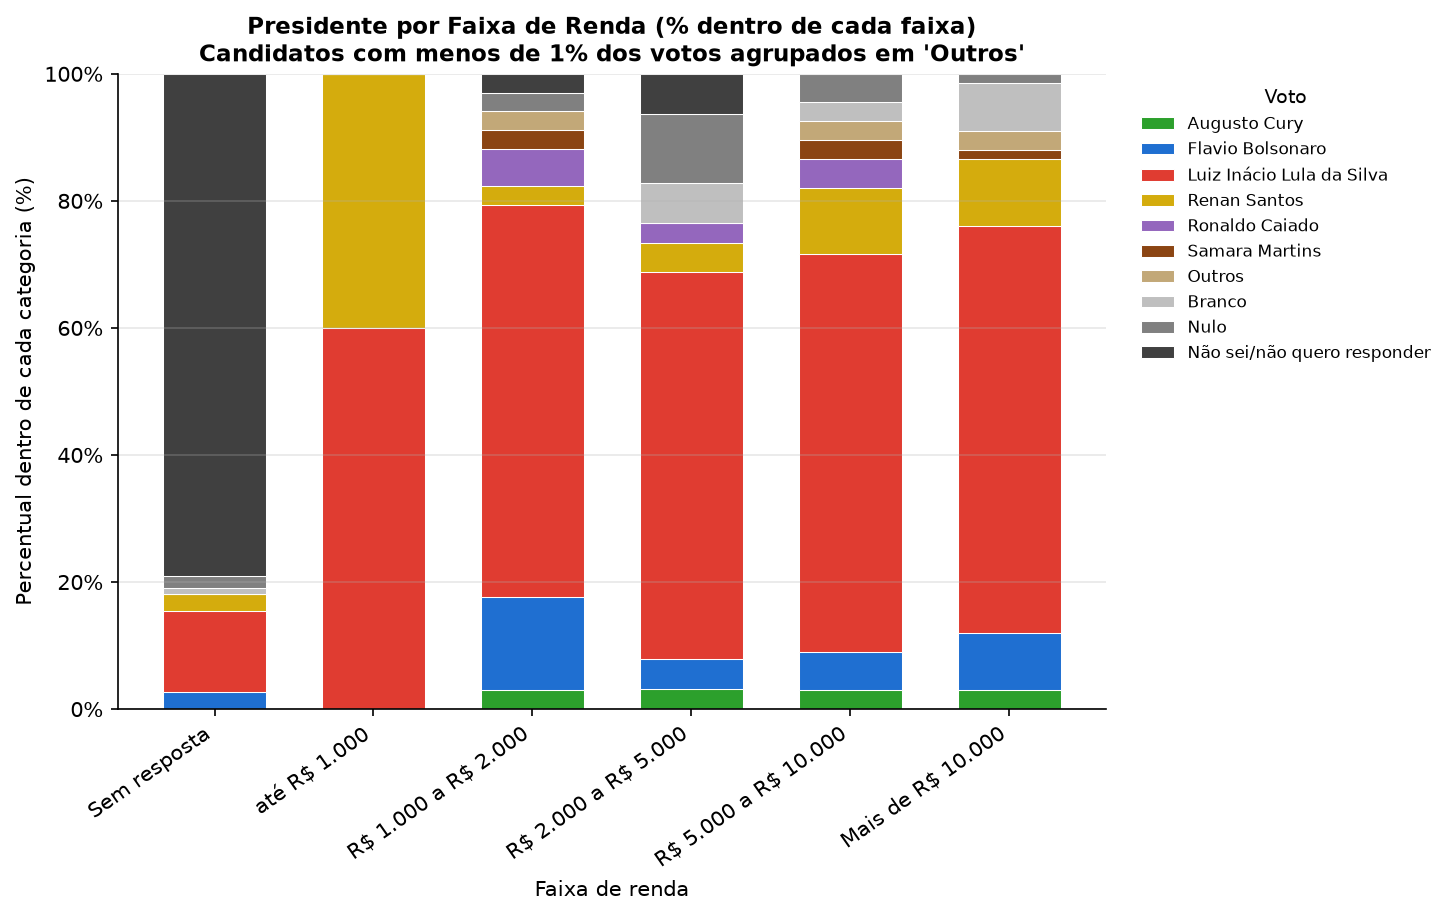
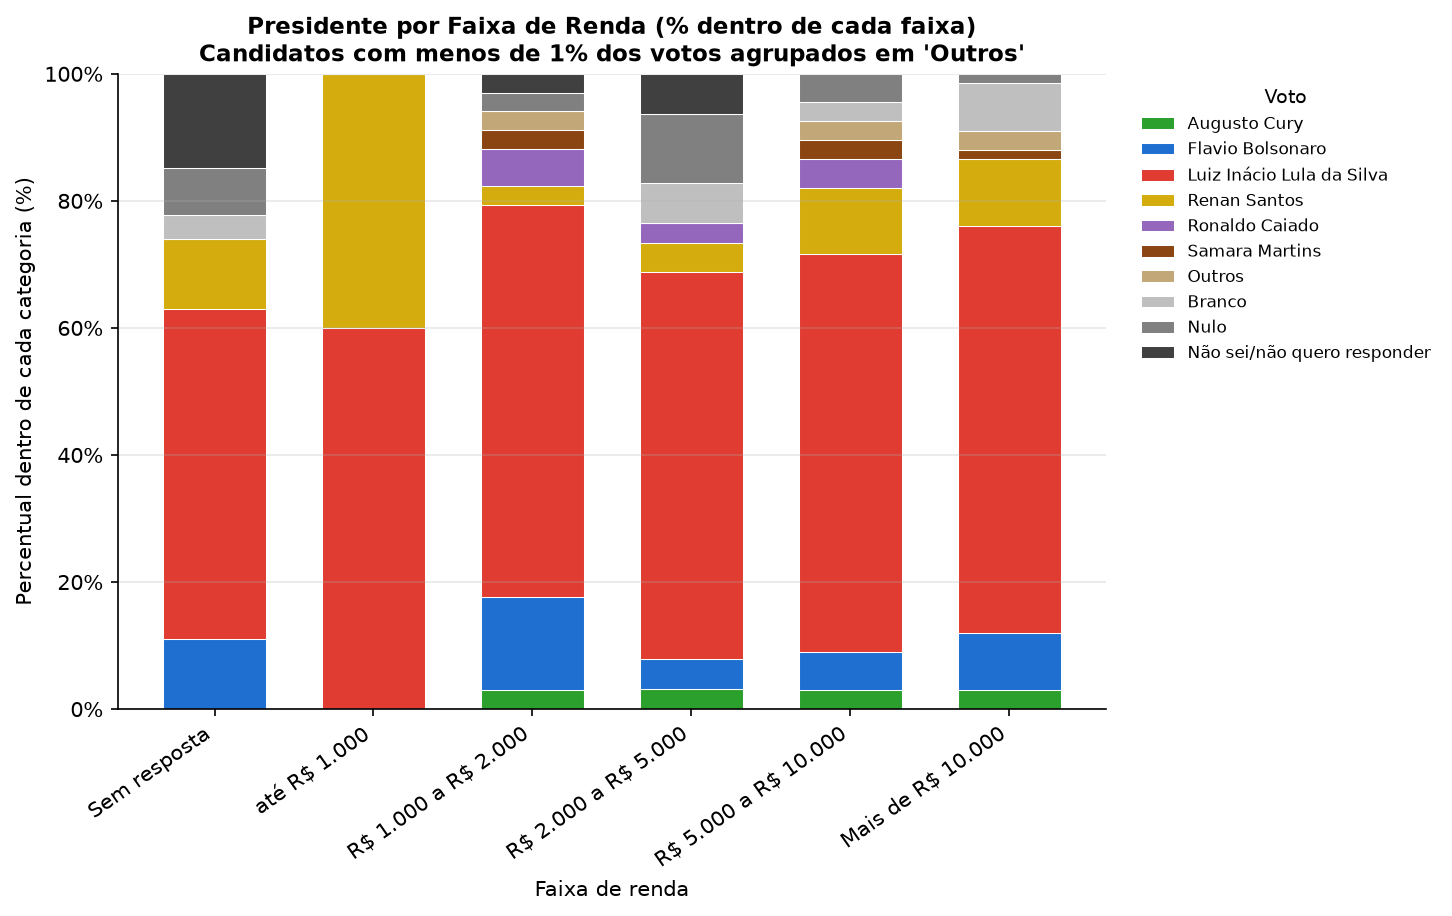
Refaz a analise com a planilha v2 (intencoes_de_voto_pavilhoes_v2.xlsx)
A v2 e um estagio mais cru da coleta: 136 respondentes (34%) deixaram
Presidente/Governador/Faixa etaria/Faixa de renda genuinamente em
branco, em vez do texto "Sem resposta" usado na planilha anterior.
Trata-se o branco de Presidente/Governador como nao-resposta (recusa),
e o branco de Faixa etaria/renda como a mesma opcao legitima "Sem
resposta" ja presente no instrumento.

Impacto nos resultados: nao-resposta sobe de 13,25% para 34,00%
(n valido cai de 347 para 264), Lula vai a 61,36% (antes 46,69%),
Grass a 56,06% (antes 42,65%), margem de erro efetiva sobe para
+-6,06 p.p. (antes +-5,28). Faixa de Renda deixa de ser
estatisticamente significativa para os dois cargos (antes <0,0001);
Faixa Etaria continua significativa; Turno segue significativo so
para Governador.

Atualiza script_sas/trabalho_amostragem.sas e
script_python/gerar_graficos.py para ler a v2 e tratar a nao-resposta
corretamente, regera as imagens de voto/subgrupos em
imagens/imagens_python/, e sincroniza relatorio_trabalho_amostragem.qmd
e formulario_calculos_manuais (nao versionado) com os novos numeros.

Changed region(s): [[0.093, 0.1834, 0.186, 0.7642]]

diff --git a/script_python/gerar_graficos.py b/script_python/gerar_graficos.py
@@ -1,7 +1,7 @@
 """
 Gera os graficos do trabalho de amostragem (substitui os PROC SGPLOT do SAS).
 
-Le a mesma base (intencoes_de_voto_pavilhoes.xlsx), replica a limpeza e as
+Le a mesma base (intencoes_de_voto_pavilhoes_v2.xlsx), replica a limpeza e as
 regras de negocio ja implementadas em script_sas/trabalho_amostragem.sas
 (strip() em Samara Martins, grupo "Outros" <1% dos votos validos, formula
 de Cochran com divisor n-1 e IC via t-Student) e salva os PNGs em imagens/.
@@ -25,7 +25,7 @@ import pandas as pd
 from scipy import stats
 
 BASE_DIR = Path(__file__).resolve().parent.parent
-DATA_PATH = BASE_DIR / "intenções_de_voto_pavilhões.xlsx"
+DATA_PATH = BASE_DIR / "intenções_de_voto_pavilhões_v2.xlsx"
 OUT_DIR = BASE_DIR / "imagens" / "imagens_python"
 OUT_DIR.mkdir(exist_ok=True)
 
@@ -69,14 +69,20 @@ def limpar_nome(nome):
 df["presidente"] = df["presidente"].apply(limpar_nome)
 df["governador"] = df["governador"].apply(limpar_nome)
 
-# "Sem resposta" e o codigo usado em campo para recusa na pergunta de voto
-# (os 9 respondentes antes em branco foram recodificados exatamente para
-# "Sem resposta" numa revisao posterior da planilha) - trata-se como
-# nao-resposta (NaN), nao como categoria de voto valida. Diferente de "Nao
-# sei/nao quero responder", que e uma resposta engajada e continua valida.
-# NAO se aplica a faixa_etaria/faixa_renda, onde "Sem resposta" e legitima.
+# Nesta versao (v2) da planilha, a nao-resposta em Presidente/Governador
+# aparece como celula genuinamente em branco (136 respondentes, 34%), nao
+# mais como o texto "Sem resposta" - fica como NaN, excluida do calculo de
+# p_hat/IC. Diferente de "Nao sei/nao quero responder", que e uma resposta
+# engajada e continua valida. A linha abaixo fica como seguranca, caso o
+# texto "Sem resposta" reapareca numa futura atualizacao da planilha.
 df["presidente"] = df["presidente"].replace("Sem resposta", np.nan)
 df["governador"] = df["governador"].replace("Sem resposta", np.nan)
+
+# Faixa etaria/renda: celula em branco = mesma coisa que a opcao explicita
+# "Sem resposta" (ambas sao igualmente legitimas - a pessoa so nao
+# informou essa variavel de perfil, diferente de recusar a pesquisa toda).
+df["faixa_etaria"] = df["faixa_etaria"].fillna("Sem resposta")
+df["faixa_renda"] = df["faixa_renda"].fillna("Sem resposta")
 
 n_nominal = len(df)
 
